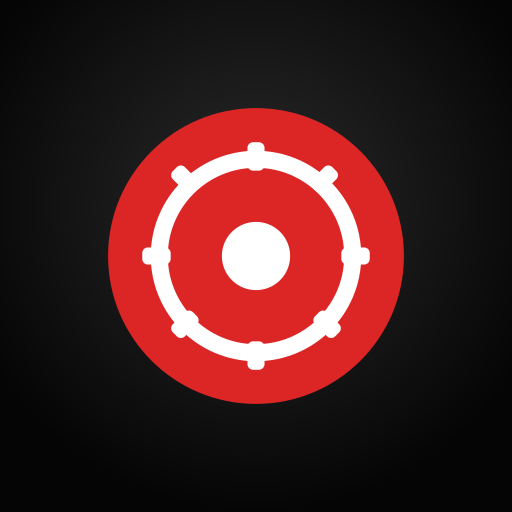
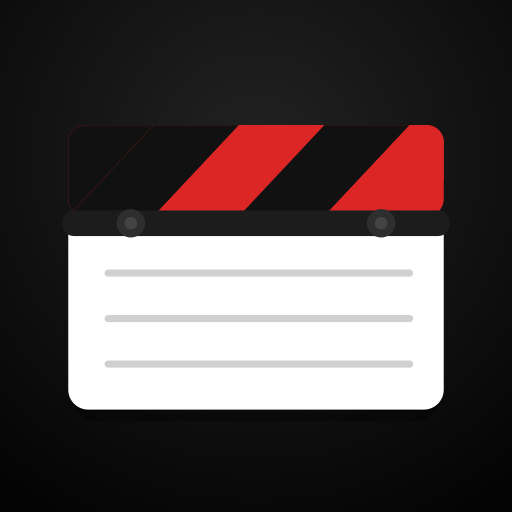
Nieuw filmklap-icoon voor iPhone beginscherm

diff --git a/scripts/generate-icons.js b/scripts/generate-icons.js
@@ -6,32 +6,51 @@ mkdirSync('public', { recursive: true });
 
 const svg = `
 <svg xmlns="http://www.w3.org/2000/svg" viewBox="0 0 180 180">
-  <!-- Achtergrond -->
   <defs>
-    <radialGradient id="bg" cx="50%" cy="40%" r="60%">
-      <stop offset="0%" stop-color="#2a2a2a"/>
-      <stop offset="100%" stop-color="#050505"/>
+    <radialGradient id="bg" cx="50%" cy="30%" r="80%">
+      <stop offset="0%" stop-color="#222222"/>
+      <stop offset="100%" stop-color="#040404"/>
     </radialGradient>
+    <clipPath id="stripClip">
+      <rect x="24" y="44" width="132" height="32" rx="6"/>
+    </clipPath>
   </defs>
+
+  <!-- Achtergrond -->
   <rect width="180" height="180" fill="url(#bg)"/>
 
-  <!-- Rode cirkel -->
-  <circle cx="90" cy="90" r="52" fill="#dc2626"/>
+  <!-- Slagschaduw achter het bord -->
+  <rect x="26" y="82" width="128" height="66" rx="7" fill="black" opacity="0.35"/>
 
-  <!-- Film-rolletje symbool -->
-  <!-- Grote ring -->
-  <circle cx="90" cy="90" r="34" fill="none" stroke="white" stroke-width="6"/>
-  <!-- Binnenste cirkel -->
-  <circle cx="90" cy="90" r="12" fill="white"/>
-  <!-- Sprocket holes: 6 kleine rechthoekjes rondom -->
-  <rect x="87" y="50" width="6" height="10" rx="2" fill="white"/>
-  <rect x="87" y="120" width="6" height="10" rx="2" fill="white"/>
-  <rect x="50" y="87" width="10" height="6" rx="2" fill="white"/>
-  <rect x="120" y="87" width="10" height="6" rx="2" fill="white"/>
-  <rect x="60" y="60" width="10" height="6" rx="2" fill="white" transform="rotate(45 65 63)"/>
-  <rect x="110" y="111" width="10" height="6" rx="2" fill="white" transform="rotate(45 115 114)"/>
-  <rect x="109" y="60" width="10" height="6" rx="2" fill="white" transform="rotate(-45 114 63)"/>
-  <rect x="60" y="111" width="10" height="6" rx="2" fill="white" transform="rotate(-45 65 114)"/>
+  <!-- Wit bord (hoofddeel) -->
+  <rect x="24" y="76" width="132" height="68" rx="7" fill="white"/>
+
+  <!-- Horizontale lijntjes op het bord -->
+  <line x1="38" y1="96"  x2="144" y2="96"  stroke="#d0d0d0" stroke-width="2.5" stroke-linecap="round"/>
+  <line x1="38" y1="112" x2="144" y2="112" stroke="#d0d0d0" stroke-width="2.5" stroke-linecap="round"/>
+  <line x1="38" y1="128" x2="144" y2="128" stroke="#d0d0d0" stroke-width="2.5" stroke-linecap="round"/>
+
+  <!-- Klapper (bovenste balk) -->
+  <rect x="24" y="44" width="132" height="32" rx="6" fill="#111"/>
+  <g clip-path="url(#stripClip)">
+    <!-- Rode basiskleur -->
+    <rect x="24" y="44" width="132" height="32" fill="#dc2626"/>
+    <!-- Zwarte diagonale strepen -->
+    <polygon points="24,44  54,44  24,76" fill="#111"/>
+    <polygon points="54,44  84,44  54,76  24,76" fill="#111"/>
+    <polygon points="84,44 114,44  84,76  54,76" fill="#dc2626"/>
+    <polygon points="114,44 144,44 114,76  84,76" fill="#111"/>
+    <polygon points="144,44 174,44 144,76 114,76" fill="#dc2626"/>
+  </g>
+
+  <!-- Scharnierbalk -->
+  <rect x="22" y="74" width="136" height="9" rx="4" fill="#1c1c1c"/>
+
+  <!-- Scharnierknopjes -->
+  <circle cx="46"  cy="78.5" r="5" fill="#2e2e2e"/>
+  <circle cx="46"  cy="78.5" r="2.2" fill="#444"/>
+  <circle cx="134" cy="78.5" r="5" fill="#2e2e2e"/>
+  <circle cx="134" cy="78.5" r="2.2" fill="#444"/>
 </svg>
 `;
 
